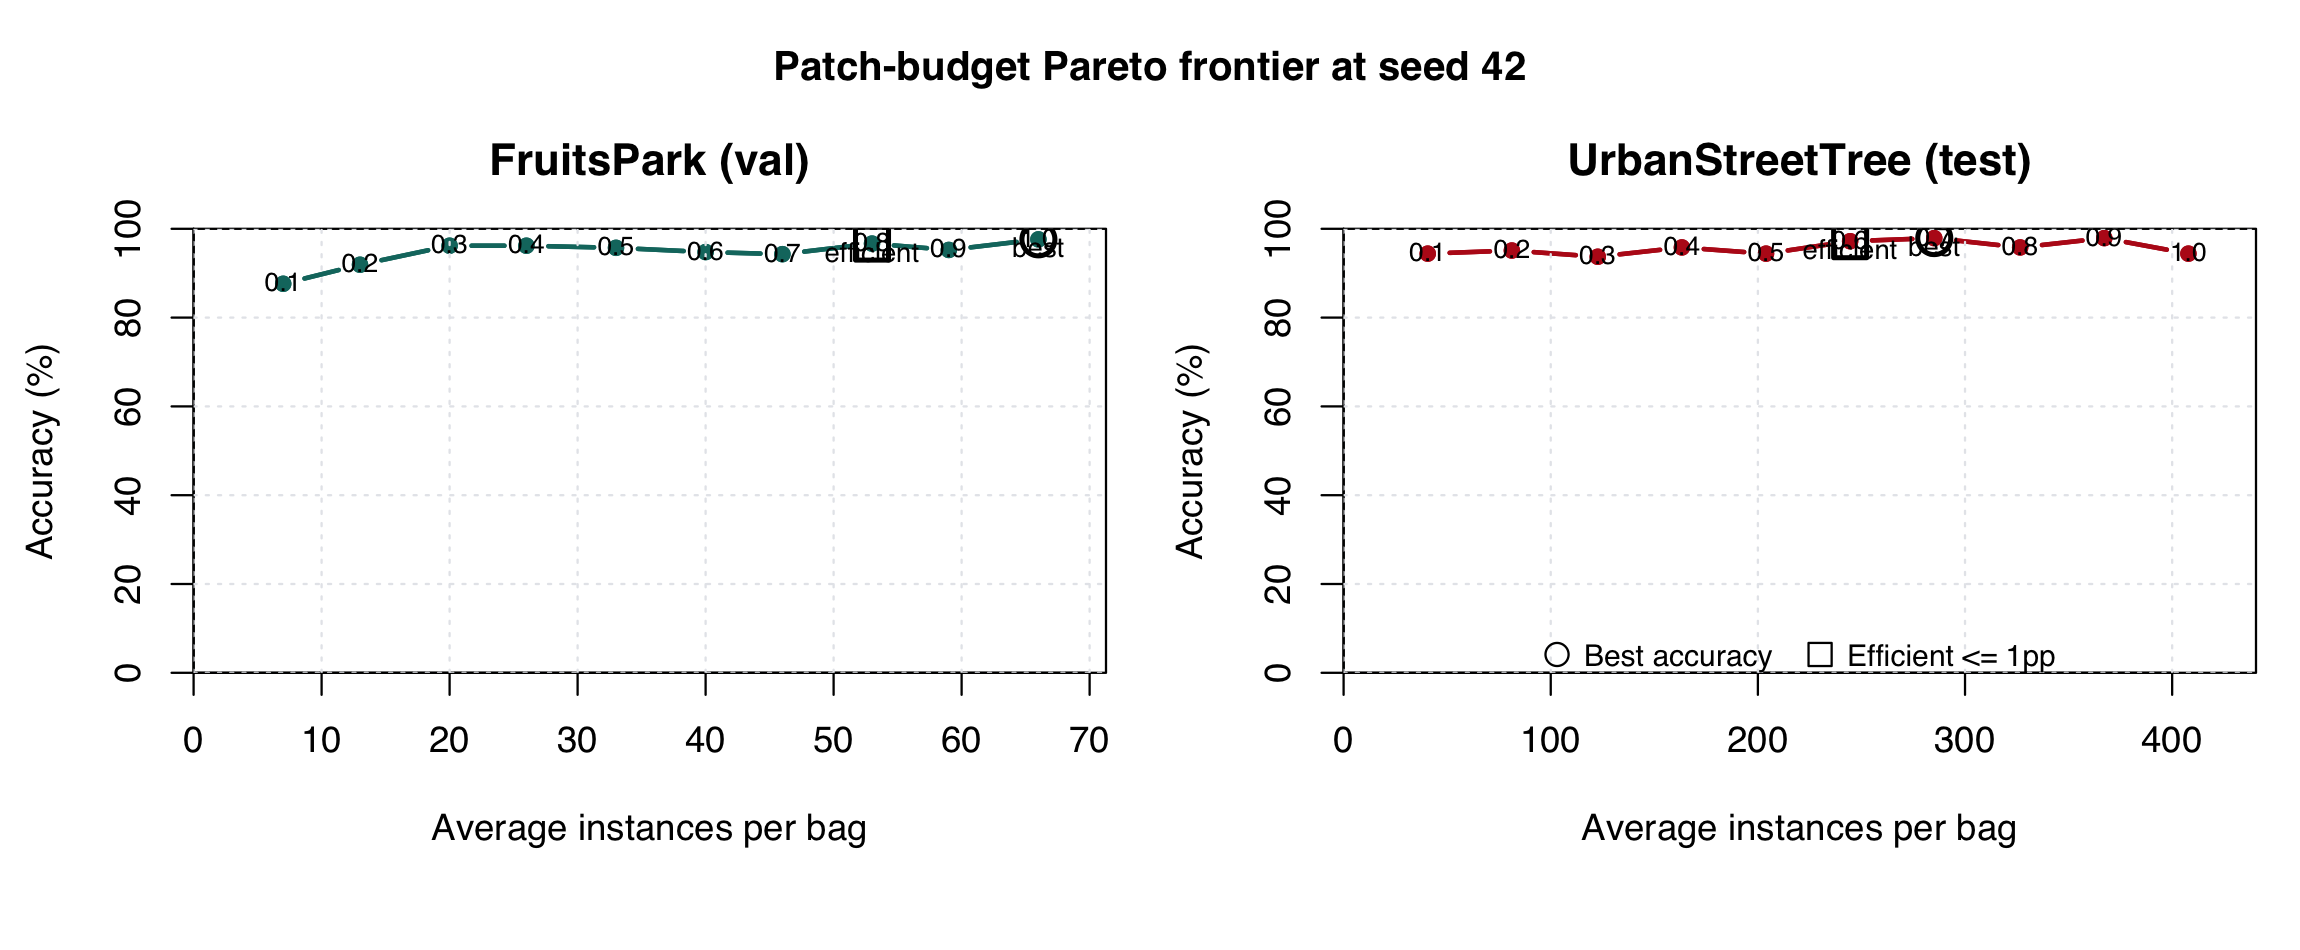
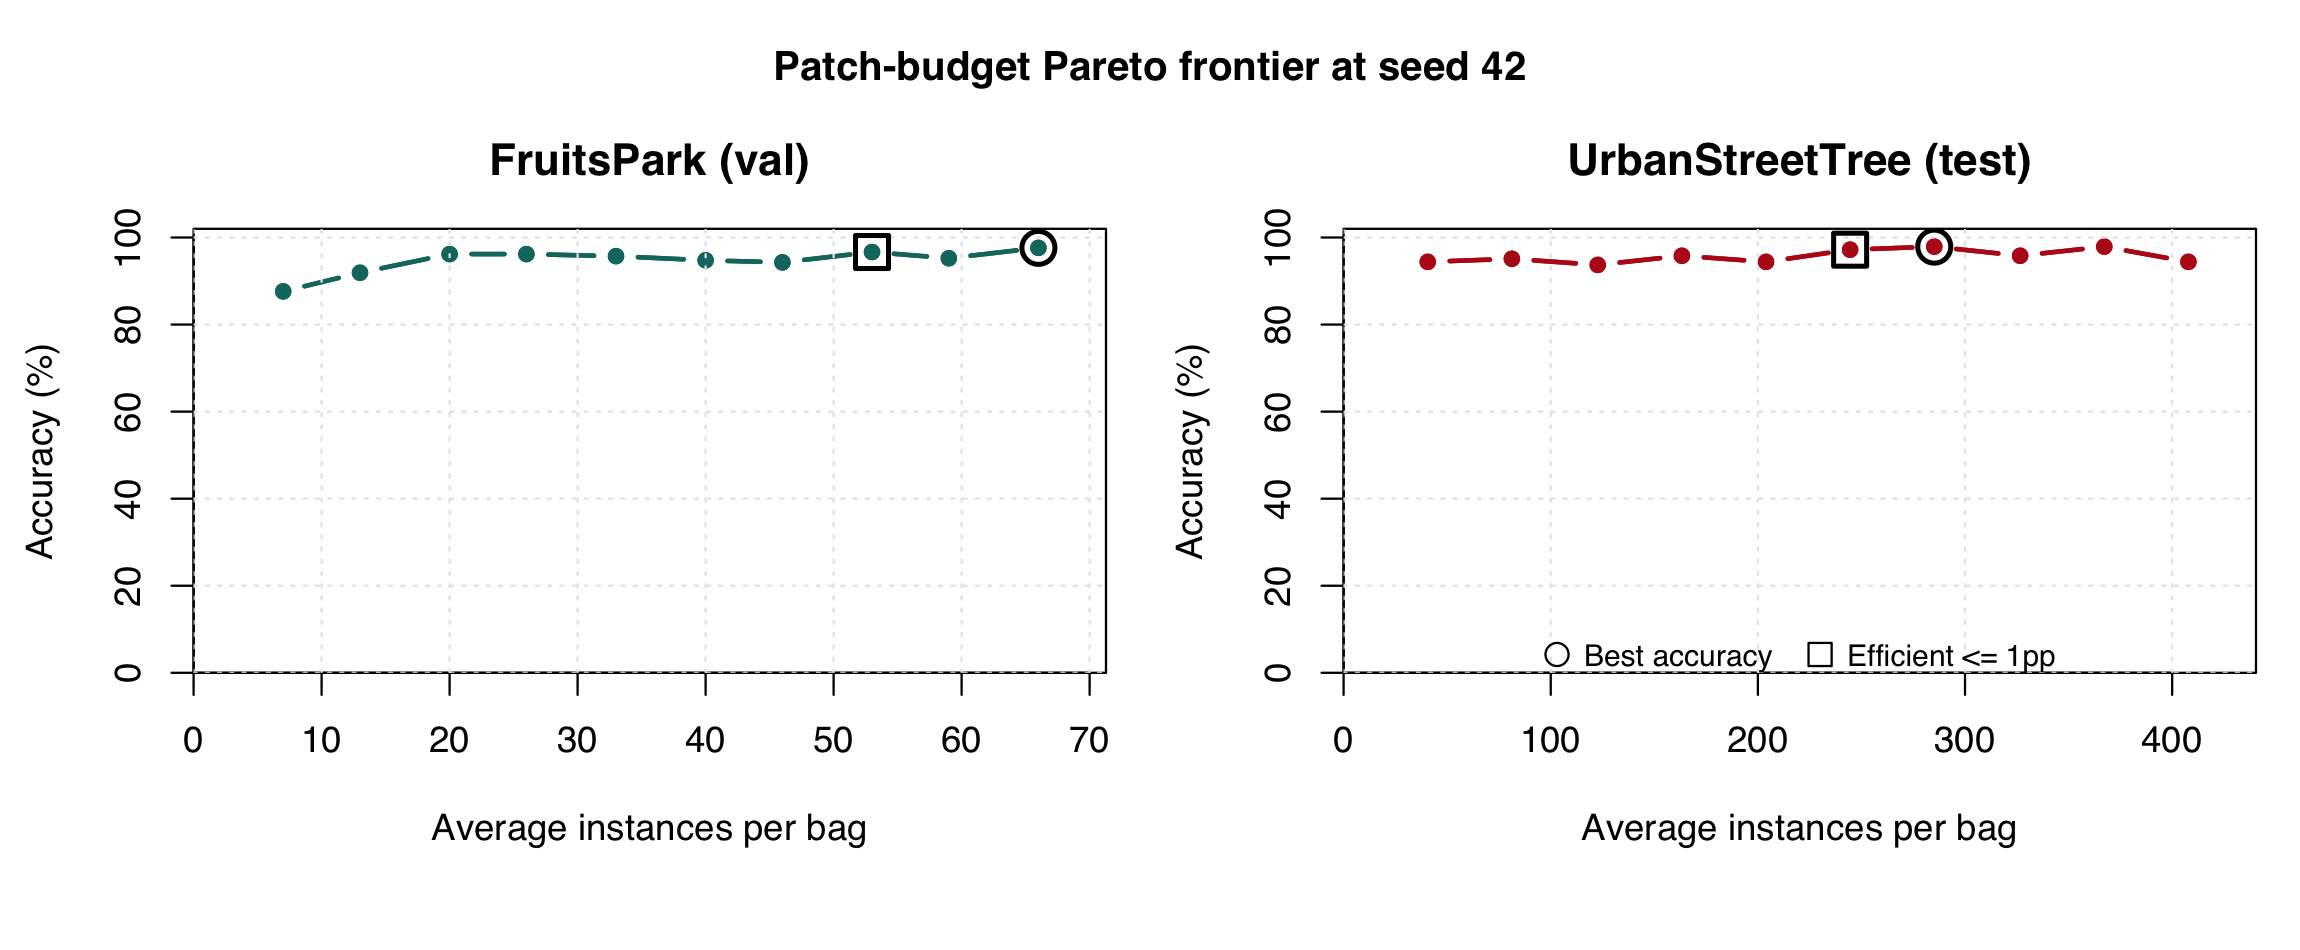
Resize Table 5 to side-by-side layout and update attention localization figures
Restructure Table 5 (depth-source screening) from a single 21-row column
to a two-dataset side-by-side layout (~11 rows) to match the visual scale
of other tables. Remove 'seed 42' qualifier from Oracle mask row label.
Replace split attention localization figures (fig26a/b) with consolidated
multi-seed versions, and update Pareto frontier figure.
Exclude access.pdf from git tracking (large build output).

diff --git a/IEEE_ACCESS/access.tex b/IEEE_ACCESS/access.tex
@@ -394,28 +394,30 @@ Fig.~\ref{fig:filter_response_depthaug} provides a qualitative check for the Sob
 \label{fig:filter_response_depthaug}
 \end{figure*}
 
-We also screened the pseudo-depth source used by DepthAug. Table~\ref{tab:prelim_depth} reports the depth-source diagnostic at $\rho=0.3$ using seed 42. On UrbanStreetTree, MiDaS Hybrid achieves the strongest test performance among the evaluated depth-inferred augmentations, with 96.50\% accuracy and 95.44\% macro-$F_1$. It also exceeds the oracle-mask augmentation runs in this diagnostic: the oracle-mask mean over seeds 42--45 is 87.24\% accuracy and 84.92\% macro-$F_1$, and the best oracle-mask seed reaches 93.71\% and 92.70\%. On FruitsPark, Marigold is slightly higher on validation, but MiDaS Hybrid remains within 0.48 percentage points in accuracy. Because UrbanStreetTree has an independent test split and is the more direct street-scene benchmark, we use MiDaS Hybrid as the standard pseudo-depth source in the final experiments. The depth model is not used at inference; it only constructs training-time background perturbations.
+We also screened the pseudo-depth source used by DepthAug, evaluating ten off-the-shelf depth estimators on both datasets. Table~\ref{tab:prelim_depth} reports the results at $\rho=0.3$ using seed 42. On UrbanStreetTree, MiDaS Hybrid achieves the strongest test performance among all ten depth-inferred sources, with 96.50\% accuracy and 95.44\% macro-$F_1$, and it also exceeds the oracle-mask augmentation at seed 42, which reaches only 81.12\% accuracy and 77.63\% macro-$F_1$. On FruitsPark, Marigold ranks first on validation, but MiDaS Hybrid remains within 0.48 percentage points in accuracy. Because UrbanStreetTree has an independent test split and is the more direct street-scene benchmark, we use MiDaS Hybrid as the standard pseudo-depth source in the final experiments. The depth model is not used at inference; it only constructs training-time background perturbations.
 
 \begin{table*}[t]
 \centering
-\caption{Depth-source screening for DepthAug at $\rho=0.3$. Accuracy and macro-$F_1$ are percentages. FruitsPark is validation-only; UrbanStreetTree is evaluated on test.}
+\caption{Depth-source screening for DepthAug at $\rho=0.3$, seed 42. Ten off-the-shelf depth estimators were evaluated on both datasets. Accuracy and macro-$F_1$ are percentages. FruitsPark uses validation; UrbanStreetTree uses test. Bold indicates the best depth-inferred source for each dataset.}
 \label{tab:prelim_depth}
 \resizebox{\textwidth}{!}{%
-\begin{tabular}{llccc}
+\begin{tabular}{lcc@{\hspace{1.5em}}llcc}
 \toprule
-Dataset & Depth/Mask source & Split & Accuracy & Macro-$F_1$ \\
+\multicolumn{3}{c}{FruitsPark (Val)} & & \multicolumn{3}{c}{UrbanStreetTree (Test)} \\
+\cmidrule(r){1-3}\cmidrule(l){5-7}
+Depth/Mask source & Accuracy & Macro-$F_1$ & & Depth/Mask source & Accuracy & Macro-$F_1$ \\
 \midrule
-FruitsPark & Marigold & Val & 90.00 & 89.97 \\
-FruitsPark & Depth Anything V2 & Val & 89.52 & 89.45 \\
-FruitsPark & MiDaS Hybrid & Val & 89.52 & 89.33 \\
-\midrule
-UrbanStreetTree & MiDaS Hybrid & Test & \textbf{96.50} & \textbf{95.44} \\
-UrbanStreetTree & DPT Large Original & Test & 94.41 & 93.83 \\
-UrbanStreetTree & Marigold & Test & 94.41 & 93.75 \\
-UrbanStreetTree & MiDaS Large & Test & 93.01 & 91.62 \\
-UrbanStreetTree & Depth Anything V2 & Test & 86.01 & 83.89 \\
-UrbanStreetTree & Oracle mask, seed 42 & Test & 81.12 & 77.63 \\
-UrbanStreetTree & Oracle mask, seeds 42--45 mean & Test & $87.24\pm5.34$ & $84.92\pm6.28$ \\
+Marigold                & \textbf{90.00} & \textbf{89.97} & & MiDaS Hybrid           & \textbf{96.50} & \textbf{95.44} \\
+Depth Anything V2       & 89.52 & 89.45 & & DPT Large Original     & 94.41 & 93.83 \\
+MiDaS Hybrid            & 89.52 & 89.33 & & Marigold               & 94.41 & 93.75 \\
+AdaBins                 & 89.05 & 89.12 & & MiDaS Large            & 93.01 & 91.62 \\
+Depth Anything V1       & 84.76 & 84.75 & & ZoeDepth               & 90.91 & 89.56 \\
+Depth Anything V3       & 83.81 & 83.73 & & Depth Anything V1      & 90.91 & 88.95 \\
+ZoeDepth                & 80.95 & 80.84 & & Depth Anything V3      & 88.81 & 86.74 \\
+DPT Large Original      & 80.48 & 81.00 & & LeReS                  & 88.81 & 86.38 \\
+LeReS                   & 80.00 & 80.53 & & AdaBins                & 86.71 & 85.04 \\
+MiDaS Large             & 79.05 & 78.68 & & Depth Anything V2      & 86.01 & 83.89 \\
+                        &       &       & & Oracle mask            & 81.12 & 77.63 \\
 \bottomrule
 \end{tabular}}
 \end{table*}
@@ -665,14 +667,14 @@ TBS sparse + DepthAug & $0.098\pm0.090$ & $0.138\pm0.102$ & $0.041\pm0.049$ & 1.
 
 \begin{figure*}[p]
 \centering
-\includegraphics[width=\textwidth]{figures/fig26a_attention_top.png}
+\includegraphics[width=\textwidth,height=0.92\textheight,keepaspectratio]{figures/fig26_attention_localization_qualitative.png}
 \caption{Representative ABMIL attention heatmaps per UrbanStreetTree class, Part~1 of~2 (species 1--7), from the sampling-seed-42 checkpoints. Each row shows one correctly classified test image selected closest to the class median foreground ratio. Columns: input image with tree mask, attention heatmap under random sparse, TBS sparse, and TBS sparse with DepthAug selection.}
 \label{fig:attention_localization_qualitative}
 \end{figure*}
 
 \begin{figure*}[p]
 \centering
-\includegraphics[width=\textwidth]{figures/fig26b_attention_bottom.png}
+\includegraphics[width=\textwidth,height=0.92\textheight,keepaspectratio]{figures/fig26b_attention_localization_qualitative.png}
 \caption{Representative ABMIL attention heatmaps per UrbanStreetTree class, Part~2 of~2 (species 8--13), continued from Fig.~\ref{fig:attention_localization_qualitative}. Layout and selection criteria are identical to Part~1.}
 \label{fig:attention_localization_qualitative_b}
 \end{figure*}